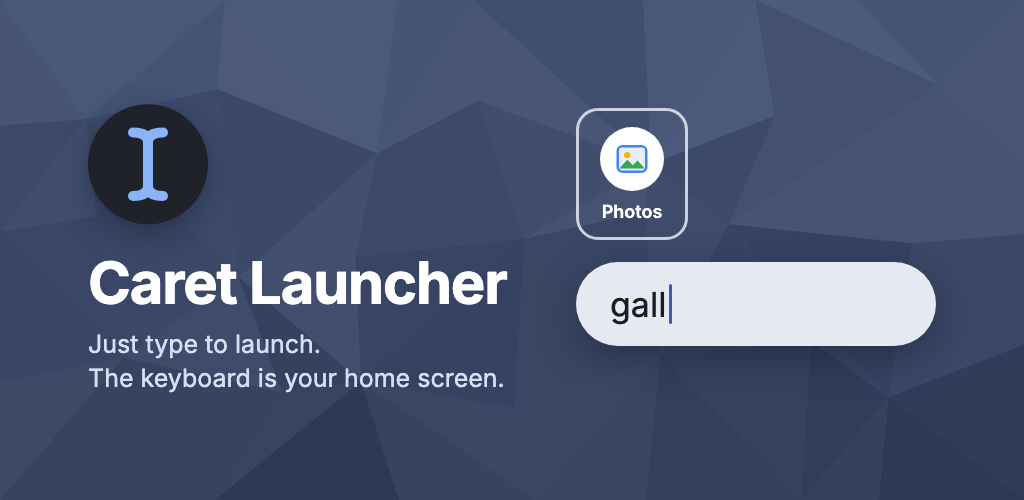
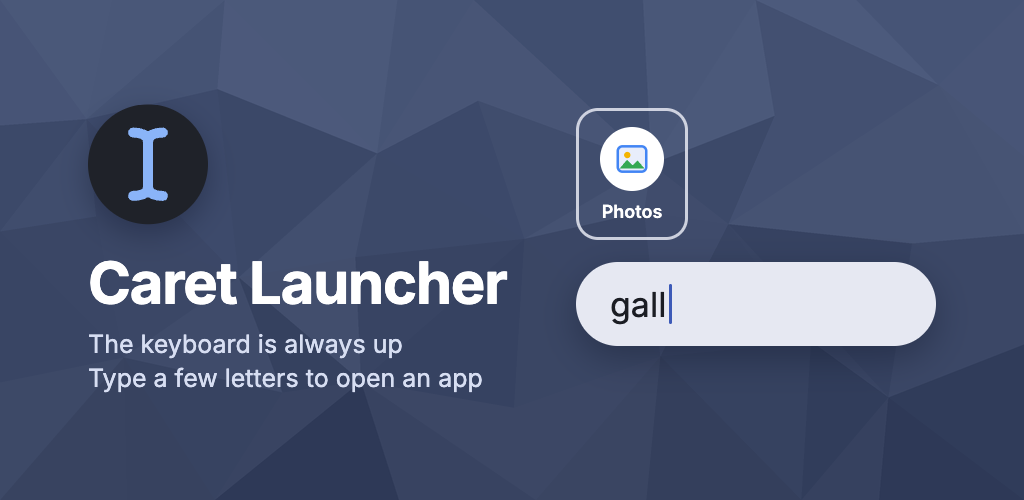
Warn about feature graphic texts that do not fit, and use the new tagline
The page records each text it shrank, and scripts/feature-graphic.py reads that back
from headless Chrome to warn (and fails if a text overflows even at the smallest
size), so overflow needs no check by eye. The tagline now says the keyboard is always
up and a few letters open an app, in en-US, ja-JP and de-DE.

Changed region(s): [[0.0938, 0.66, 0.5, 0.78]]

diff --git a/store/feature-graphic.html b/store/feature-graphic.html
@@ -32,25 +32,34 @@
     <div class="icon">
       <svg width="120" height="120" viewBox="18 18 72 72"><path d="M54,37L54,71M45,35Q54,35 54,41Q54,35 63,35M45,73Q54,73 54,67Q54,73 63,73" fill="none" stroke="#8AB4F8" stroke-width="6" stroke-linecap="round" stroke-linejoin="round"/></svg>
     </div>
-    <div class="name" data-fit="464">$name</div>
+    <div class="name" data-fit="464" data-part="name">$name</div>
     <div class="tagline">$tagline</div>
   </div>
   <div class="result">
     <div class="app">
       <svg width="38" height="38" viewBox="0 0 24 24"><rect x="3" y="4" width="18" height="16" rx="3" fill="#E8EDFB"/><circle cx="9" cy="9.5" r="2" fill="#F4B400"/><path d="M4 18l5-5.5 3.5 3.5 3-3L20 18z" fill="#34A853"/><rect x="3" y="4" width="18" height="16" rx="3" fill="none" stroke="#4285F4" stroke-width="1.6"/></svg>
     </div>
-    <div class="label" data-fit="100">$label</div>
+    <div class="label" data-fit="100" data-part="photo app name">$label</div>
   </div>
-  <div class="field"><span data-fit="285">$typed</span><span class="caret"></span></div>
+  <div class="field"><span data-fit="285" data-part="search field">$typed</span><span class="caret"></span></div>
   <script>
     // Shrinks each [data-fit] text until it is no wider than its data-fit pixels, so a long
-    // translation stays on its line instead of overflowing.
+    // translation stays on its line instead of overflowing. What it shrank goes into
+    // body[data-fit-report] (JSON), which scripts/feature-graphic.py reads to warn.
     function fit() {
+      const report = [];
       for (const el of document.querySelectorAll('[data-fit]')) {
         const max = Number(el.dataset.fit);
-        let size = parseFloat(getComputedStyle(el).fontSize);
+        const width = el.scrollWidth;
+        const from = parseFloat(getComputedStyle(el).fontSize);
+        let size = from;
         while (el.scrollWidth > max && size > 8) el.style.fontSize = (size -= 0.5) + 'px';
+        if (size < from || el.scrollWidth > max) {
+          report.push({ part: el.dataset.part, text: el.textContent, max, width, from, size,
+                        overflow: el.scrollWidth > max });
+        }
       }
+      document.body.dataset.fitReport = JSON.stringify(report);
     }
     document.fonts.ready.then(fit);
   </script>

diff --git a/scripts/feature-graphic.py b/scripts/feature-graphic.py
@@ -14,13 +14,15 @@ The texts of a language:
   store screenshots) and "appName" (the photo app's name, found above the field).
 
 The fonts come from Google Fonts: Inter, with the language's Noto Sans for the scripts Inter lacks.
-Arabic and Hebrew mirror the layout. Texts that are too long shrink to fit their line.
+Arabic and Hebrew mirror the layout. Texts that are too long shrink to fit their line, and the script
+warns about each one it shrank (the page reports them), so the output need not be checked by eye for
+that; it fails if a text still overflows at the smallest size.
 
 Usage: scripts/feature-graphic.py [--langs en-US,ja-JP,...] [--out DIR]
   Without --langs, it renders every language that has store/feature-graphic/<lang>.json.
   With --out, it writes DIR/<lang>.png instead (to preview without touching the listings).
 """
-import argparse, html, json, os, shutil, string, subprocess, sys, tempfile
+import argparse, html, json, os, re, shutil, string, subprocess, sys, tempfile
 
 ROOT = os.path.dirname(os.path.dirname(os.path.abspath(__file__)))
 STORE = os.path.join(ROOT, "store")
@@ -49,7 +51,8 @@ def page(lang):
     noto = NOTO.get(lang)
     if noto:
         families.append(noto.replace(" ", "+") + ":wght@400;600;700")
-    tagline = "".join(f'<div data-fit="464">{html.escape(line)}</div>' for line in texts["tagline"])
+    tagline = "".join(f'<div data-fit="464" data-part="tagline line {i}">{html.escape(line)}</div>'
+                      for i, line in enumerate(texts["tagline"], 1))
     template = string.Template(open(os.path.join(STORE, "feature-graphic.html"), encoding="utf-8").read())
     return template.substitute(
         lang=HTML_LANG.get(lang, lang),
@@ -63,21 +66,46 @@ def page(lang):
     )
 
 
+def chrome(source, *args):
+    return subprocess.run([CHROME, "--headless", "--hide-scrollbars", "--force-device-scale-factor=1",
+                           f"--window-size={WIDTH},{HEIGHT}", "--virtual-time-budget=10000", *args,
+                           "file://" + source],
+                          check=True, capture_output=True, text=True).stdout
+
+
+def fit_report(source):
+    """What the page's fit() shrank: [{part, text, max, width, from, size, overflow}]."""
+    dom = chrome(source, "--dump-dom")
+    found = re.search(r'data-fit-report="([^"]*)"', dom)
+    if not found:
+        sys.exit("The page did not report its fitting (fonts not loaded?)")
+    return json.loads(html.unescape(found.group(1)))
+
+
 def render(lang, out):
+    """Renders [lang] to [out] and returns the warnings about texts that did not fit."""
     with tempfile.TemporaryDirectory() as work:
         shutil.copy(os.path.join(STORE, "feature-graphic-bg.png"), work)
         source = os.path.join(work, "feature-graphic.html")
         open(source, "w", encoding="utf-8").write(page(lang))
         shot = os.path.join(work, "shot.png")
-        subprocess.run([CHROME, "--headless", "--hide-scrollbars", "--force-device-scale-factor=1",
-                        f"--window-size={WIDTH},{HEIGHT}", "--virtual-time-budget=10000",
-                        f"--screenshot={shot}", "file://" + source],
-                       check=True, stdout=subprocess.DEVNULL, stderr=subprocess.DEVNULL)
+        chrome(source, f"--screenshot={shot}")
         os.makedirs(os.path.dirname(out), exist_ok=True)
         # Flatten onto the background color: Google Play takes no alpha.
         subprocess.run(["magick", shot, "-background", "#3B4A6B", "-alpha", "remove", "-alpha", "off",
                         "-crop", f"{WIDTH}x{HEIGHT}+0+0", "+repage", "PNG24:" + out], check=True)
+        warnings = []
+        for r in fit_report(source):
+            what = (f"{lang}: the {r['part']} \"{r['text']}\" is {r['width']}px wide, "
+                    f"{r['width'] - r['max']}px over its {r['max']}px")
+            if r["overflow"]:
+                warnings.append((True, f"{what}, and still overflows at {r['size']:g}px"))
+            else:
+                warnings.append((False, f"{what}; shrunk from {r['from']:g}px to {r['size']:g}px"))
     print(f"{lang}: {os.path.relpath(out, ROOT)}")
+    for _, warning in warnings:
+        print("  warning: " + warning, file=sys.stderr)
+    return warnings
 
 
 def main():
@@ -90,10 +118,17 @@ def main():
     missing = [l for l in langs if l not in available]
     if missing:
         sys.exit(f"No texts in store/feature-graphic/ for: {', '.join(missing)}")
+    warnings = []
     for lang in langs:
         out = (os.path.join(args.out, f"{lang}.png") if args.out else
                os.path.join(LISTINGS, lang, "graphics", "feature-graphic", "1.png"))
-        render(lang, out)
+        warnings += render(lang, out)
+    if warnings:
+        print(f"\n{len(warnings)} text(s) did not fit at their size:", file=sys.stderr)
+        for _, warning in warnings:
+            print("  " + warning, file=sys.stderr)
+    if any(overflow for overflow, _ in warnings):
+        sys.exit("Some text overflows even at the smallest size")
 
 
 if __name__ == "__main__":
